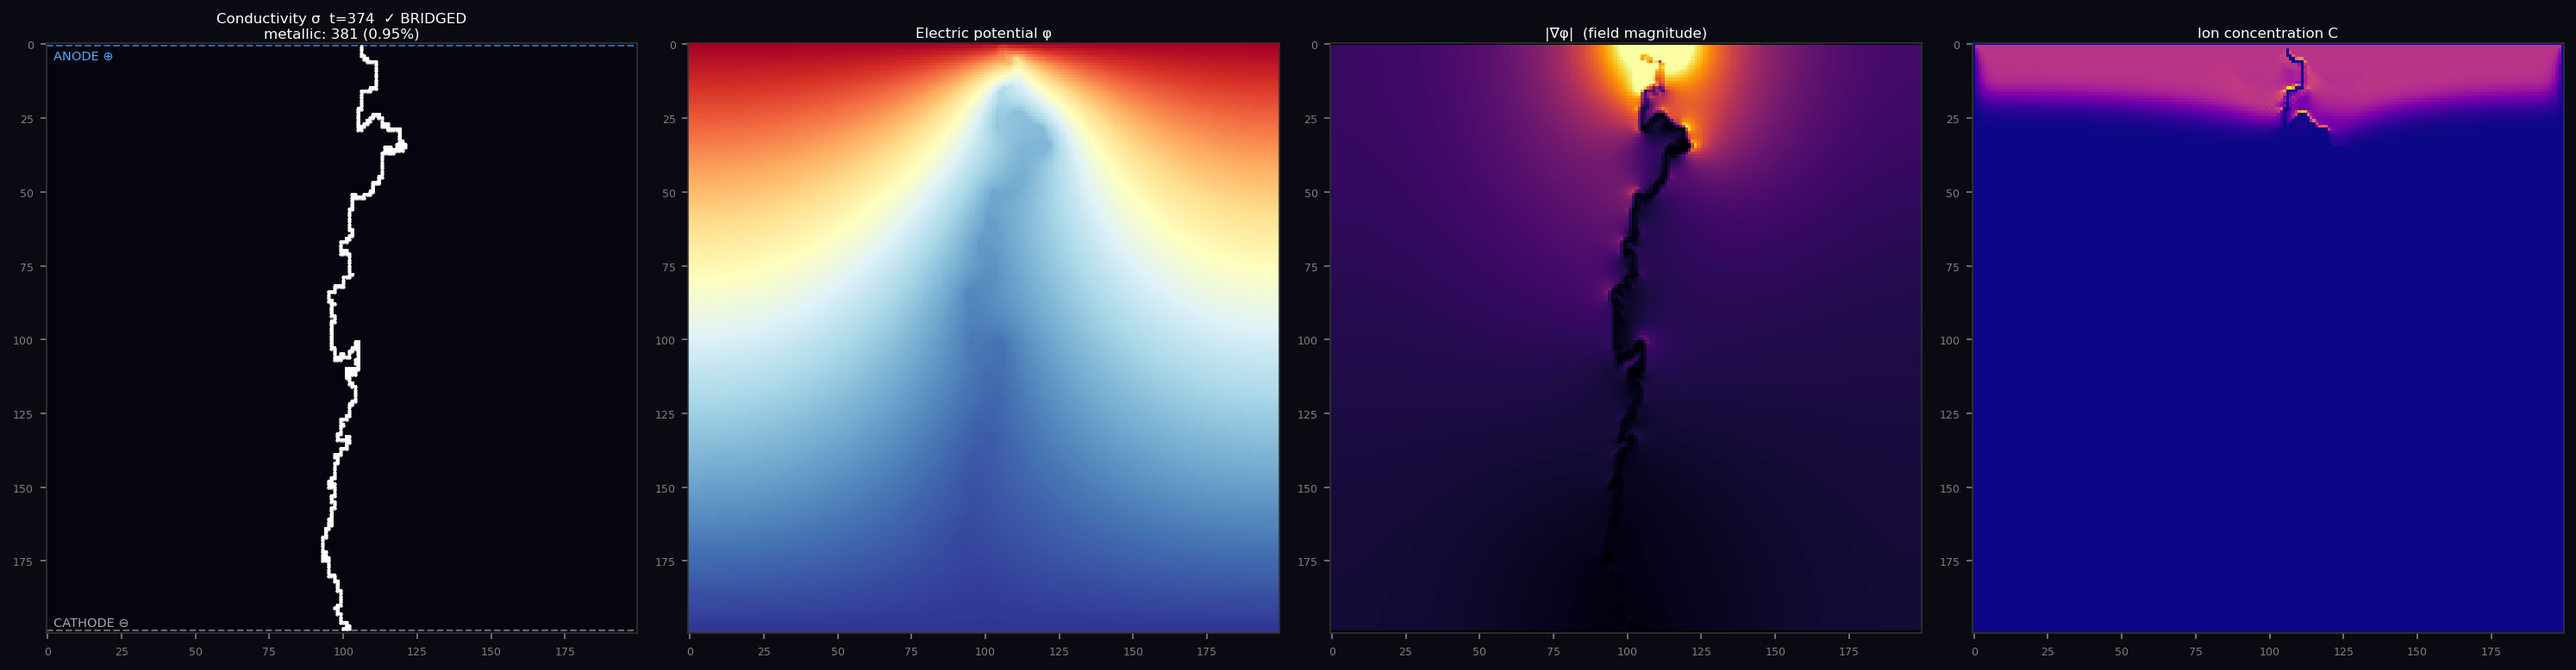
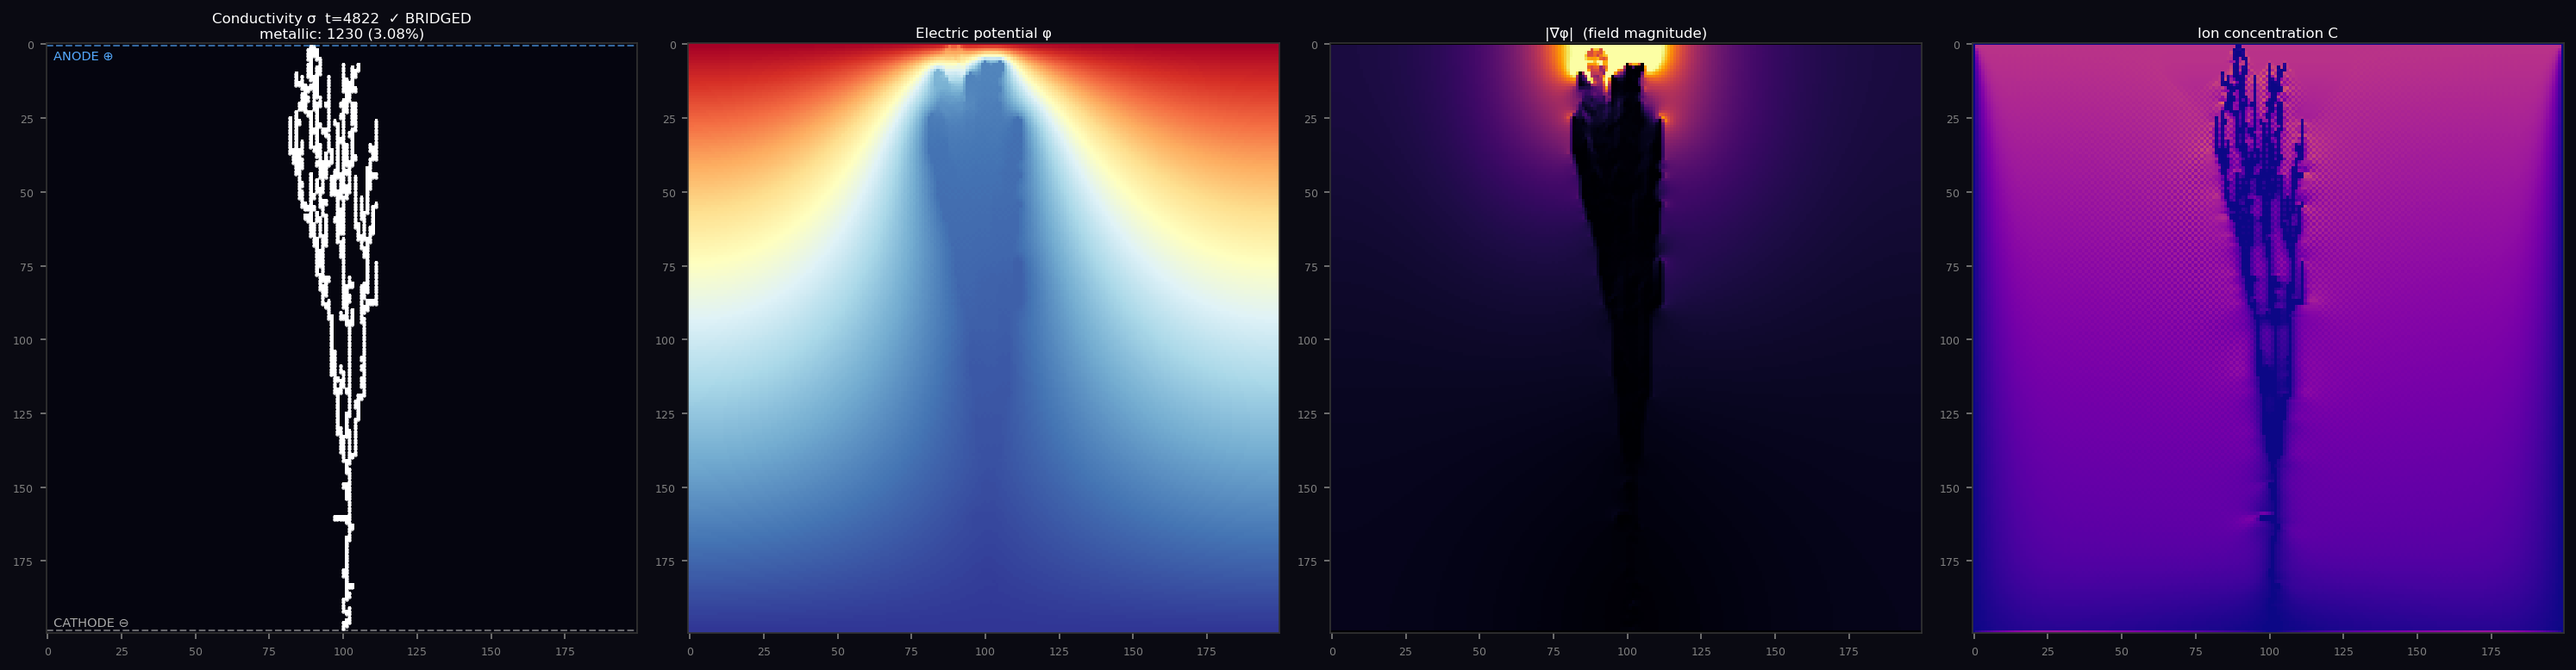
Midway using ions

diff --git a/python_imp/cbram_sim.py b/python_imp/cbram_sim.py
@@ -56,6 +56,18 @@ MAX_BRANCHES    = 5      # cap on total branch stump count
 
 RNG_SEED        = 42
 
+# ── Continuum experiment parameters ──────────────────────────────────────────
+# Active only with --continuum flag. Tests whether the pure drift-diffusion
+# approach works when two previously missing mechanisms are added:
+#   1. Ion decay — ions recombine with defects/stray electrons en route (loss term)
+#   2. J_e gating — deposition only where the metallic neighbour carries
+#      high electron current density (J_e = σ|∇V|), selecting the active tip
+ION_DECAY         = 0.0003 # fractional ion loss per step (~3333 step lifetime,
+                           # ~22% survive 200-row crossing at µ=8)
+SIGMA_GROWTH_CONT = 0.5    # deposit probability scale for continuum mode
+E_FIELD_THRESH    = 0.008  # min downward E field at candidate = 1.6× background (0.005)
+                           # Selects tip where V drops sharply into the metallic region
+
 # ── Colormap ──────────────────────────────────────────────────────────────────
 _cbram_cmap = LinearSegmentedColormap.from_list("cbram", [
     (0.00, (0.02, 0.02, 0.06)),
@@ -135,9 +147,14 @@ def solve_poisson(V, sigma, n=JACOBI_ITERS):
 # Ion field is maintained for the 4th panel visualization only.
 # It shows where ions accumulate (near filament tips), validating the physics story.
 
-def drift_diffusion(ion, sigma, V):
+def drift_diffusion(ion, sigma, V, decay=0.0):
     ion = ion.copy()
     ion[sigma >= BRIGHT] = ION_LOW   # no mobile ions in metallic cells
+
+    # Ion decay: recombination with defects / stray electrons en route.
+    # Drains background accumulation so only ions near the active tip survive.
+    if decay > 0.0:
+        ion = np.maximum(ion * (1.0 - decay), ION_LOW)
 
     E_down = np.clip(V[1:-1, 1:-1] - V[2:, 1:-1], 0.0, 0.02)
     flux   = ION_MOBILITY * E_down * ion[1:-1, 1:-1]
@@ -153,6 +170,70 @@ def drift_diffusion(ion, sigma, V):
         ION_LOW, ION_HIGH * 4
     )
     return ion
+
+
+def stochastic_deposit_je(ion, sigma, V, rng):
+    """
+    Continuum stochastic deposition gated by local downward electric field.
+
+    Deposition at (r,c) requires:
+      1. Metal directly below at (r+1,c)  — tip adjacency
+      2. E_down = V[r-1,c] - V[r,c] > E_FIELD_THRESH
+         The field arriving at the candidate from above must exceed 1.6× background.
+         This selects the active tip: V drops sharply into the near-zero region
+         created by the metallic cell below, concentrating the field there.
+         Cells deep in the filament perimeter or far from the tip have weaker field.
+      3. Stochastic: prob = SIGMA_GROWTH_CONT * ion[r,c]
+
+    Why E_down at the candidate (not J_e at the metallic neighbor):
+      The metallic cell directly below is screened — V inside the metal ≈ 0 (grounded
+      via the filament to the cathode), and the candidate above is also pulled toward 0
+      by the strong σ coupling. This makes |∇V| inside the metal near zero.
+      But the field ABOVE the candidate (V[r-1] - V[r]) is enhanced because V[r] ≈ 0
+      while V[r-1] is at normal electrolyte potential.
+    """
+    sigma = sigma.copy()
+    metal = sigma >= BRIGHT
+
+    # Downward E field arriving at each cell from the row above
+    # E_down[r,c] = V[r-1,c] - V[r,c]  (positive = field drives ions downward into r,c)
+    E_down = np.zeros_like(V)
+    E_down[1:, :] = V[:-1, :] - V[1:, :]
+    E_down = np.maximum(E_down, 0.0)
+
+    # Strict tip: metal directly below
+    metal_below = np.roll(metal, -1, axis=0)
+
+    # Diagonal tip: metal one row below AND one column to the side.
+    # Lateral ion diffusion creates a left/right concentration gradient that
+    # determines which diagonal fires — this is where diffusion drives tortuosity.
+    diag_l = np.roll(metal_below,  1, axis=1)   # metal at (r+1, c-1)
+    diag_r = np.roll(metal_below, -1, axis=1)   # metal at (r+1, c+1)
+    adj_diagonal = (diag_l | diag_r) & ~metal_below
+
+    for arr in (metal_below, adj_diagonal):
+        arr[0, :] = arr[-1, :] = arr[:, 0] = arr[:, -1] = False
+
+    cand_strict = metal_below   & ~metal & (E_down > E_FIELD_THRESH)
+    cand_diag   = adj_diagonal  & ~metal & (E_down > E_FIELD_THRESH * 0.6)
+
+    prob      = np.clip(SIGMA_GROWTH_CONT * ion, 0.0, 1.0)
+    prob_diag = prob * 0.08   # rare lateral L-steps — a few deflections, not a thicket
+    rolls     = rng.random((N, N))
+
+    dep_strict = cand_strict & (rolls < prob)
+    dep_diag   = cand_diag   & (rolls < prob_diag)
+
+    # 4-connectivity bridge: each diagonal deposit at (r,c) also deposits (r+1,c).
+    # This creates the L-path: metal[r+1,c±1] → bridge[r+1,c] → diag[r,c].
+    # Without the bridge, diagonal cells are only 8-connected — grader BFS fails.
+    bridge = np.roll(dep_diag, 1, axis=0)   # shift diag deposits down to (r+1,c)
+    bridge[0, :] = bridge[-1, :] = bridge[:, 0] = bridge[:, -1] = False
+    bridge &= ~metal   # don't overwrite existing metal
+
+    deposited = dep_strict | dep_diag | bridge
+    sigma[deposited] = SIGMA_MAX
+    return sigma, deposited
 
 # ── Field-guided tip growth ───────────────────────────────────────────────────
 # Each tip moves one step per timestep. Direction probabilities derived from
@@ -274,7 +355,7 @@ def render(fig, axes, sigma, V, ion, t, bridged):
 
 # ── Main ──────────────────────────────────────────────────────────────────────
 
-def run(save_gif=False):
+def run(save_gif=False, continuum=False):
     rng = np.random.default_rng(RNG_SEED)
 
     sigma = np.full((N, N), SIGMA_LOW)
@@ -291,14 +372,25 @@ def run(save_gif=False):
     t_bridge = None
     t0       = time.time()
 
-    print(f"CBRAM field-guided tip growth  N={N}  T_MAX={T_MAX}")
-    print(f"  field_strength={FIELD_STRENGTH}  base_up={BASE_P_UP}"
-          f"  branch_prob={P_BRANCH_SPAWN}  max_branches={MAX_BRANCHES}")
+    if continuum:
+        print(f"CBRAM CONTINUUM mode  N={N}  T_MAX={T_MAX}")
+        print(f"  decay={ION_DECAY}  E_field_thresh={E_FIELD_THRESH}"
+              f"  deposit_scale={SIGMA_GROWTH_CONT}")
+    else:
+        print(f"CBRAM field-guided tip growth  N={N}  T_MAX={T_MAX}")
+        print(f"  field_strength={FIELD_STRENGTH}  base_up={BASE_P_UP}"
+              f"  branch_prob={P_BRANCH_SPAWN}  max_branches={MAX_BRANCHES}")
 
     for t in range(T_MAX):
-        V                    = solve_poisson(V, sigma, n=JACOBI_ITERS)
-        ion                  = drift_diffusion(ion, sigma, V)
-        sigma, tips, b, n_br = grow_step(tips, sigma, V, rng, n_br)
+        V   = solve_poisson(V, sigma, n=JACOBI_ITERS)
+        ion = drift_diffusion(ion, sigma, V, decay=ION_DECAY if continuum else 0.0)
+
+        if continuum:
+            sigma, deposited = stochastic_deposit_je(ion, sigma, V, rng)
+            ion[deposited]   = ION_LOW     # consume ions at deposition sites
+            b = bool(np.any(sigma[1, 1:-1] >= BRIGHT))
+        else:
+            sigma, tips, b, n_br = grow_step(tips, sigma, V, rng, n_br)
 
         if b and not bridged:
             bridged  = True
@@ -308,8 +400,12 @@ def run(save_gif=False):
         if t % FRAME_EVERY == 0:
             frames.append((sigma.copy(), V.copy(), ion.copy(), t))
             nm = int(np.sum(sigma >= BRIGHT))
-            print(f"  t={t:5d}  metal={nm:5d}  tips={len(tips):2d}"
-                  f"  {'BRIDGED' if bridged else '      '}  {time.time()-t0:.1f}s")
+            if continuum:
+                print(f"  t={t:5d}  metal={nm:5d}"
+                      f"  {'BRIDGED' if bridged else '      '}  {time.time()-t0:.1f}s")
+            else:
+                print(f"  t={t:5d}  metal={nm:5d}  tips={len(tips):2d}"
+                      f"  {'BRIDGED' if bridged else '      '}  {time.time()-t0:.1f}s")
 
         if bridged:
             break
@@ -363,4 +459,4 @@ def run(save_gif=False):
 
 
 if __name__ == "__main__":
-    run(save_gif="--gif" in sys.argv)
+    run(save_gif="--gif" in sys.argv, continuum="--continuum" in sys.argv)
